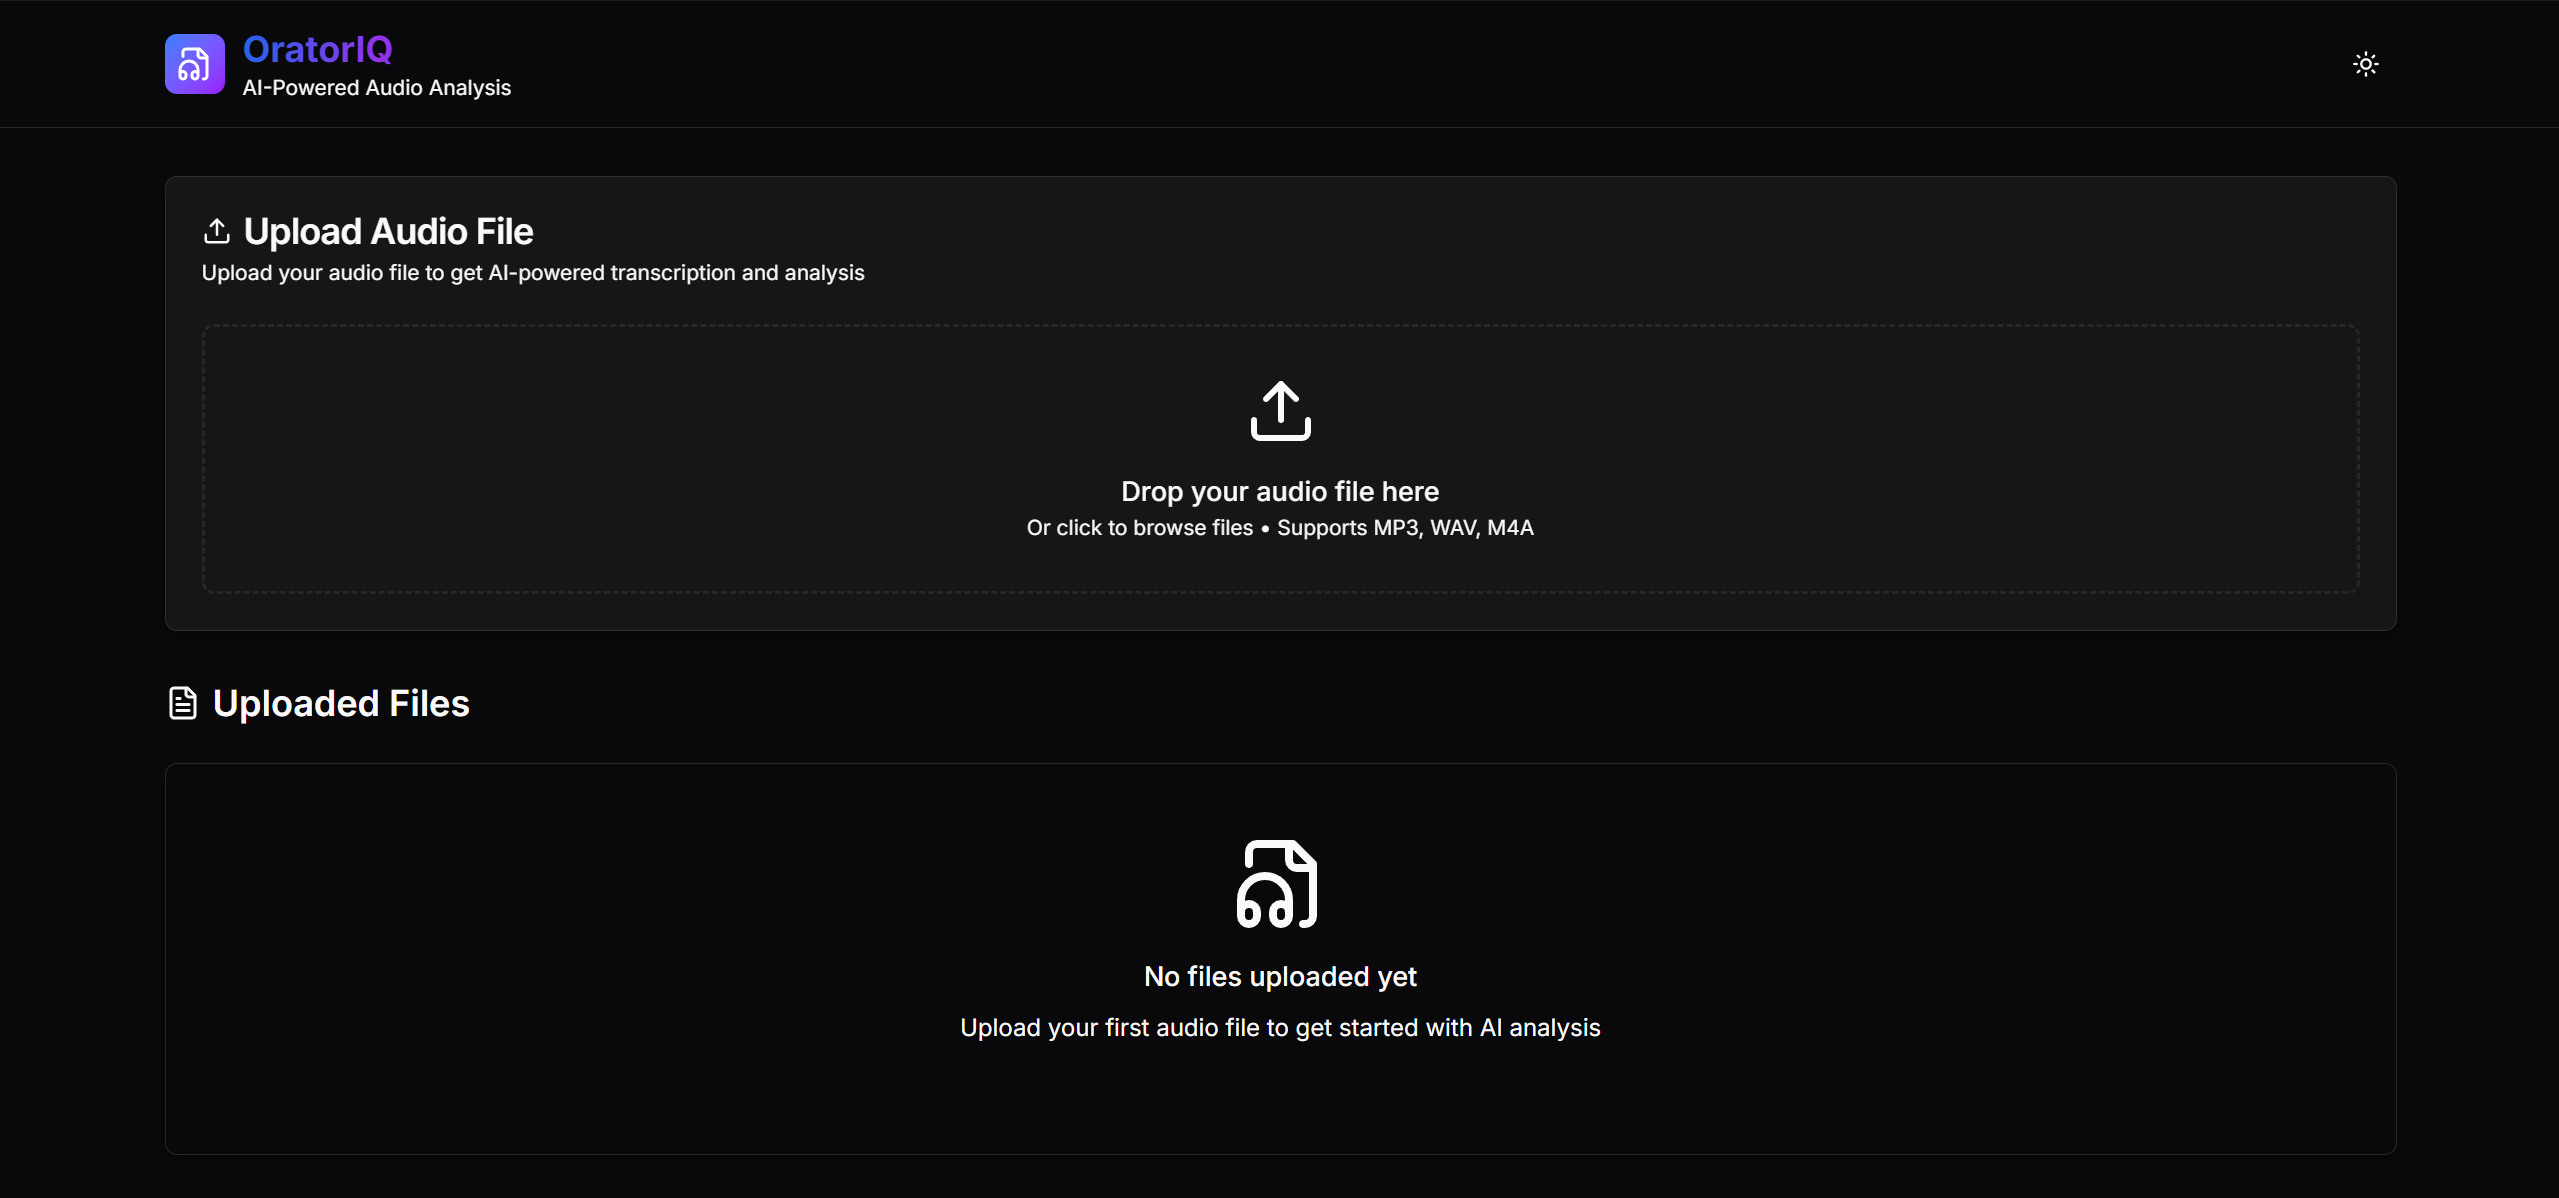
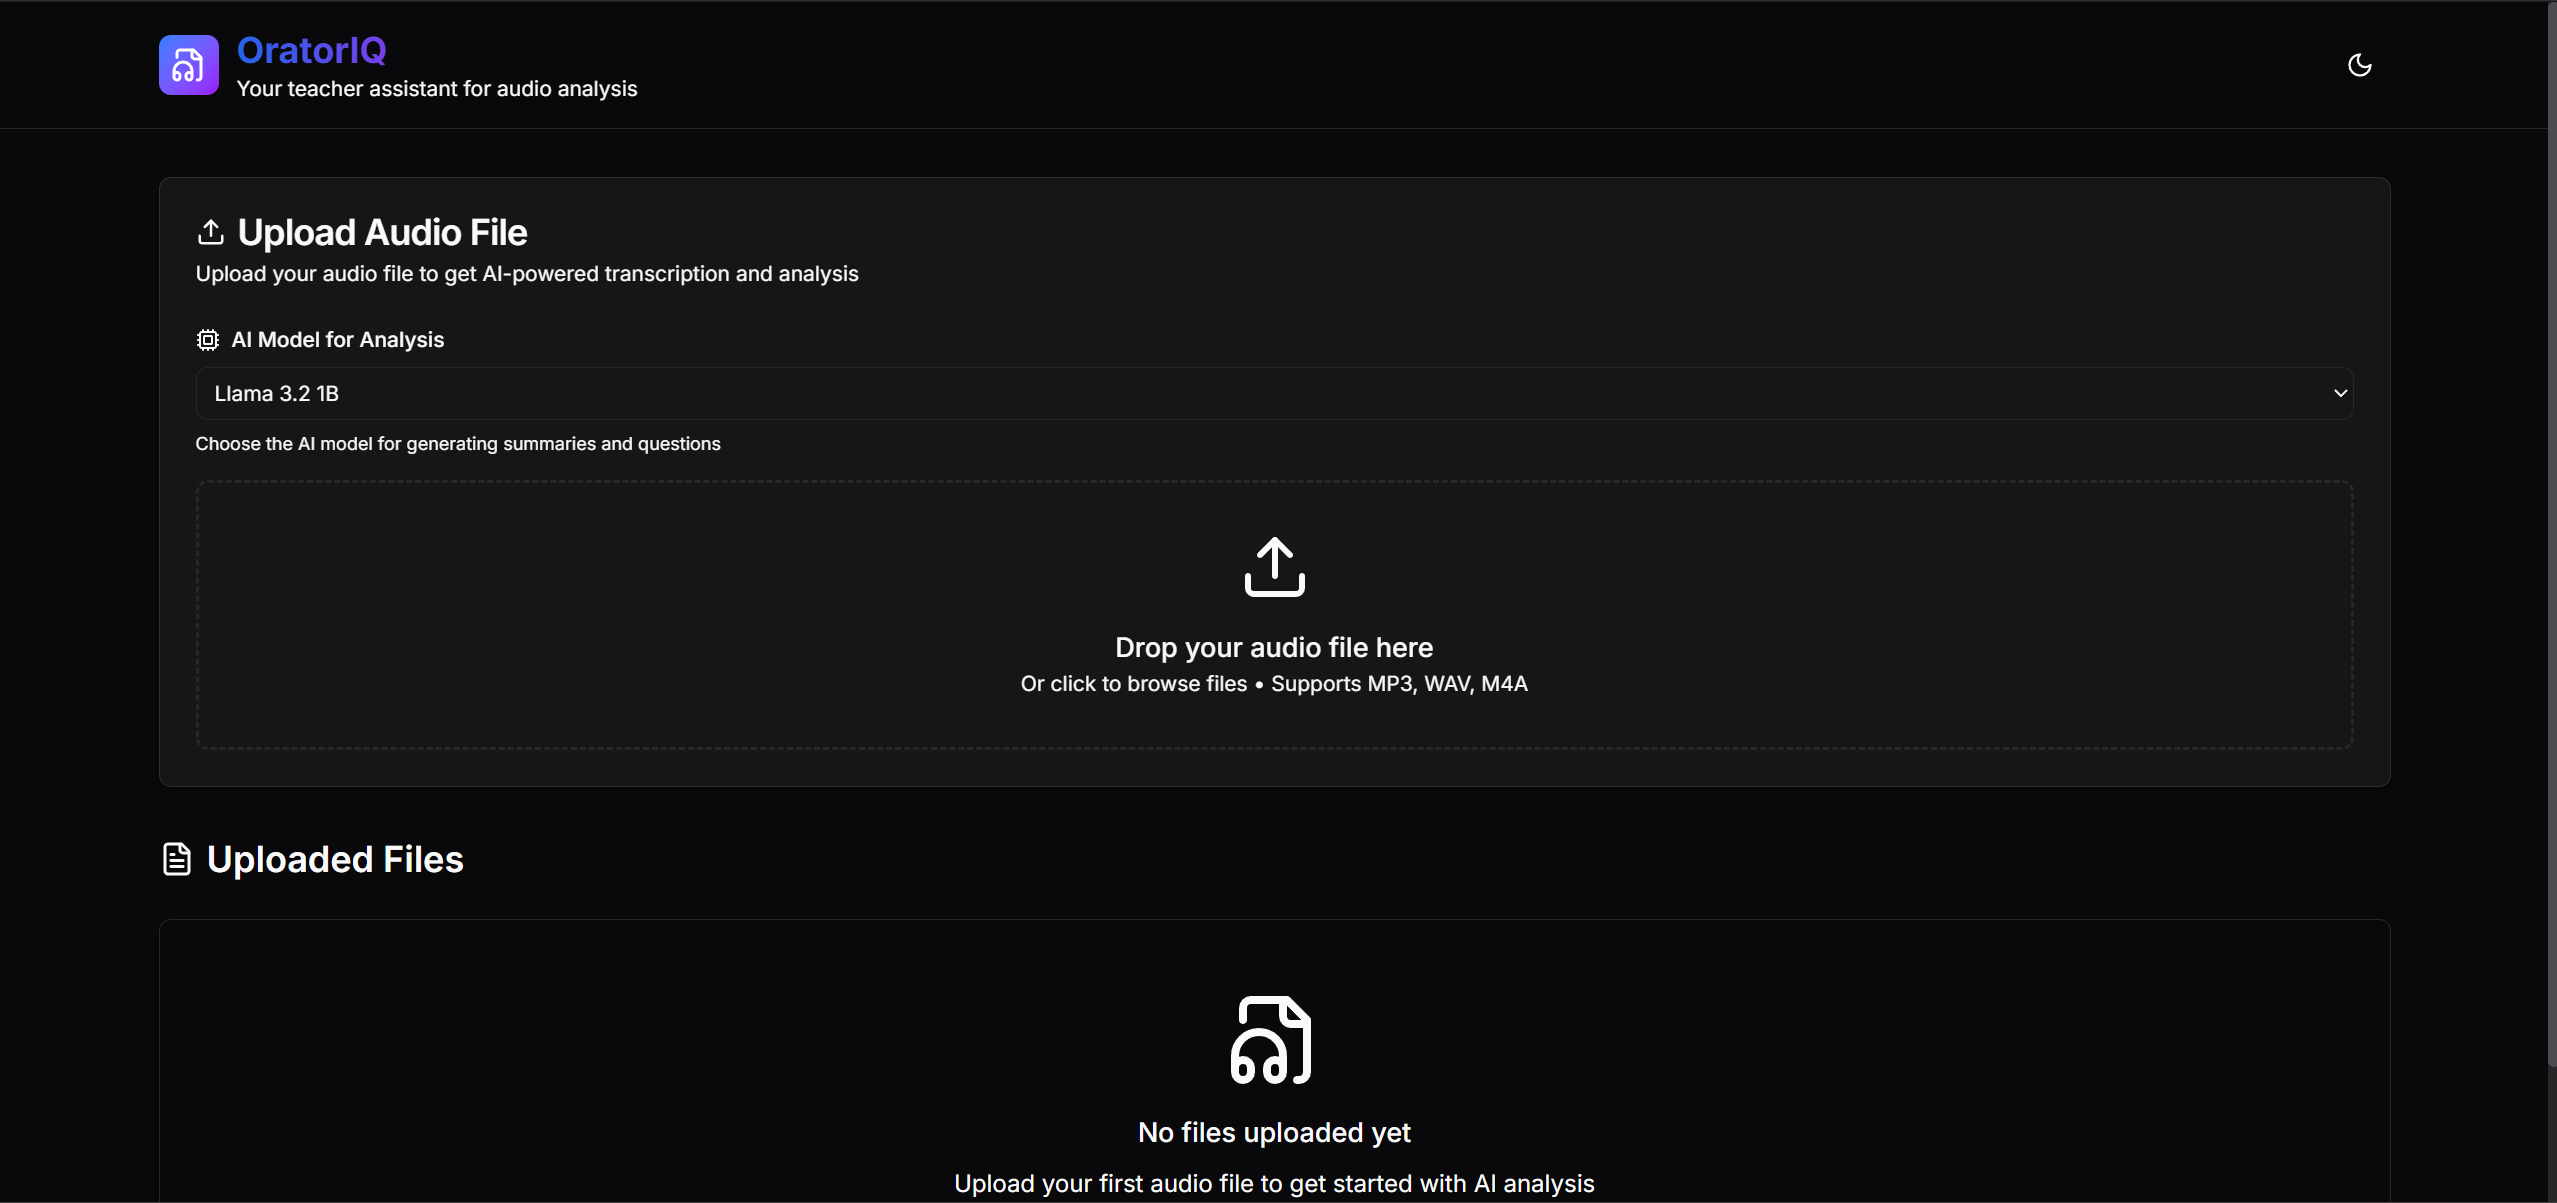
Updated assets for new UI + updated models fetching in backend + Fixed file upload bug

diff --git a/frontend/src/App.jsx b/frontend/src/App.jsx
@@ -129,7 +129,10 @@ export default function App() {
   };
 
   const handleUpload = async () => {
-    if (!file) return;
+    if (!file) {
+      console.warn("No file selected for upload");
+      return;
+    }
     setIsProcessing(true);
     try {
       const form = new FormData();
@@ -306,7 +309,6 @@ export default function App() {
                       onClick={(e) => {
                         e.stopPropagation();
                         setFile(null);
-                        fileInputRef.current.value = null; // Reset file input
                       }}
                       className="absolute -top-2 -right-2 w-6 h-6 bg-red-500 hover:bg-red-600 text-white rounded-full flex items-center justify-center transition-colors shadow-md hover:shadow-lg cursor-pointer"
                       title="Remove file"
@@ -324,6 +326,7 @@ export default function App() {
                     onClick={(e) => {
                       e.stopPropagation();
                       handleUpload();
+                      fileInputRef.current.value = ""; // Reset file input
                     }}
                     onMouseEnter={(e) => e.stopPropagation()}
                     onMouseLeave={(e) => e.stopPropagation()}

diff --git a/backend/app/main.py b/backend/app/main.py
@@ -90,24 +90,30 @@ def get_available_models():
         if response.status_code == 200:
             data = response.json()
             models = []
-            for model in data.get('models', []):
-                model_name = model.get('name', '')
-                if model_name:
-                    # Clean up model name for display
-                    display_name = model_name.split(':')[0]
-                    models.append({
-                        'name': model_name,
-                        'display_name': display_name,
-                        'size': model.get('size', 0)
-                    })
+
+            # Fetch models from local Ollama API
+            # for model in data.get('models', []):
+            #     model_name = model.get('name', '')
+            #     if model_name:
+            #         # Clean up model name for display
+            #         display_name = model_name.split(':')[0]
+            #         models.append({
+            #             'name': model_name,
+            #             'display_name': display_name,
+            #             'size': model.get('size', 0)
+            #         })
             
-            # Add default models if none found
-            if not models:
-                models = [
-                    {'name': 'vatistasdim/boXai', 'display_name': 'boXai (Default)', 'size': 0},
-                    {'name': 'krith/meta-llama-3.2-1b-instruct-uncensored', 'display_name': 'Llama 3.2 1B', 'size': 0},
-                    {'name': 'smollm', 'display_name': 'SmolLM', 'size': 0}
-                ]
+            # Always add these default models if not already present
+            default_models = [
+                {'name': 'vatistasdim/boXai', 'display_name': 'boXai (Default)', 'size': 0},
+                {'name': 'krith/meta-llama-3.2-1b-instruct-uncensored', 'display_name': 'Llama 3.2 1B', 'size': 0},
+                {'name': 'smollm', 'display_name': 'SmolLM', 'size': 0}
+            ]
+
+            existing_names = {m['name'] for m in models}
+            for default_model in default_models:
+                if default_model['name'] not in existing_names:
+                    models.append(default_model)
             
             return {"models": models, "ollama_available": True}
         else:

diff --git a/README.md b/README.md
@@ -33,9 +33,11 @@ Commencez par télécharger votre fichier audio de cours via l'interface.
 ### 2. Traitement en cours
 Suivez la progression en temps réel pendant que votre audio est transcrit et analysé.
 
-![Vue de traitement](assets/process.png)
+![Traitement](assets/process1.png)
 
-![Vue de traitement étendue](assets/process_expended.png)
+![Traitement](assets/process2.png)
+
+![Traitement](assets/process3.png)
 
 ### 3. Traitement terminé
 Recevez une notification lorsque votre cours a été entièrement traité et analysé.
